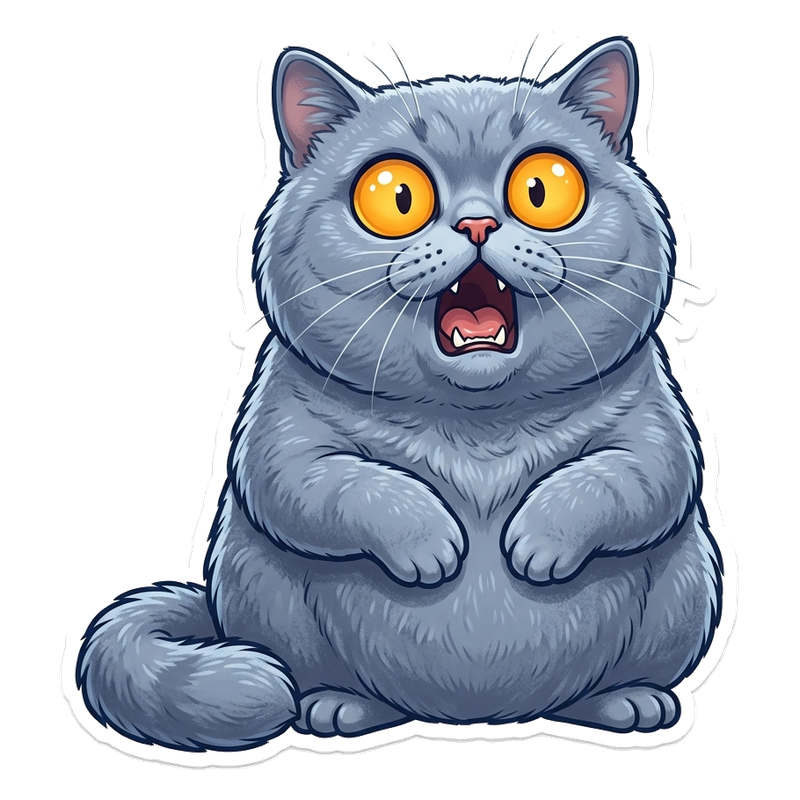
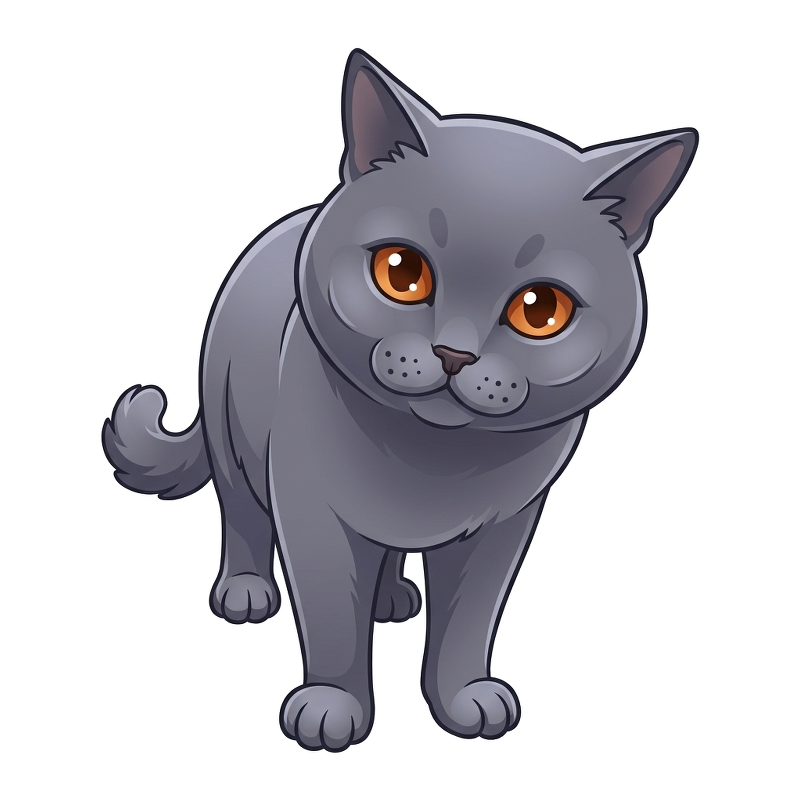
feat: update Bonya cat skin to 1:1 real photo match in game sticker style

diff --git a/src/game/cat.ts b/src/game/cat.ts
@@ -135,19 +135,19 @@ export const CAT_SKINS: CatSkin[] = [
     id: 'bonya',
     nameUk: 'Боня',
     nameRu: 'Боня',
-    breedUk: 'Шокована британка',
-    breedRu: 'Шокированная британка',
-    descUk: 'Британка з вічно очманілим, широко розкритим поглядом. Жуки самі тікають від її очей!',
-    descRu: 'Британка с вечно ошарашенным взглядом. Жуки сами разбегаются от её глаз!',
+    breedUk: 'Справжня британка',
+    breedRu: 'Настоящая британка',
+    descUk: 'Плюшева красуня британської породи з глибокими бурштиновими очима та фірмовими пухкими щічками. Головна улюблениця пекарні!',
+    descRu: 'Плюшевая красавица британской породы с глубокими янтарными глазами и фирменными пухлыми щёчками. Главная любимица пекарни!',
     minLevel: 3,
     priceFocaccia: 50_000_000,
-    pounceBubble: '👀 ШО ЦЕ БУЛО?!',
-    chaseBubbleUk: '😳 ТИ ХТО ТАКИЙ?!',
-    chaseBubbleRu: '😳 ТЫ КТО ТАКОЙ?!',
-    rainBubbleUk: '😱 ВОДА?! ЗАКРИЙТЕ НЕБО!',
-    rainBubbleRu: '😱 ВОДА?! ЗАКРОЙТЕ НЕБО!',
-    purrsUk: ['👀 Що ти робиш?!', '😳 Оце так погладив...', '🐾 Очманіти яка фокача!', '😹 Мене контузило любов\'ю!'],
-    purrsRu: ['👀 Что ты делаешь?!', '😳 Вот это погладил...', '🐾 Обалдеть какая фокачча!', '😹 Меня контузило любовью!'],
+    pounceBubble: '🐾 ХАП! Упіймала!',
+    chaseBubbleUk: '😼 Куди це ти повзеш?!',
+    chaseBubbleRu: '😼 Куда это ты ползёшь?!',
+    rainBubbleUk: '🙀 Дощ! Моя плюшева шерсть!',
+    rainBubbleRu: '🙀 Дождь! Моя плюшевая шерсть!',
+    purrsUk: ['Муррр... 💖', 'Британське муркотіння ✨', '🐾 Моя улюблена фокача!', '😻 Гладь мене ще!'],
+    purrsRu: ['Муррр... 💖', 'Британское мурчание ✨', '🐾 Моя любимая фокачча!', '😻 Гладь меня ещё!'],
   },
   {
     id: 'bambass',
